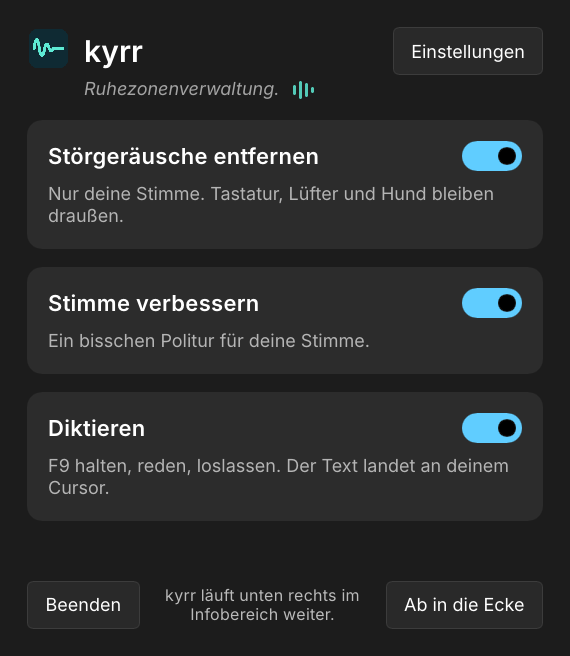
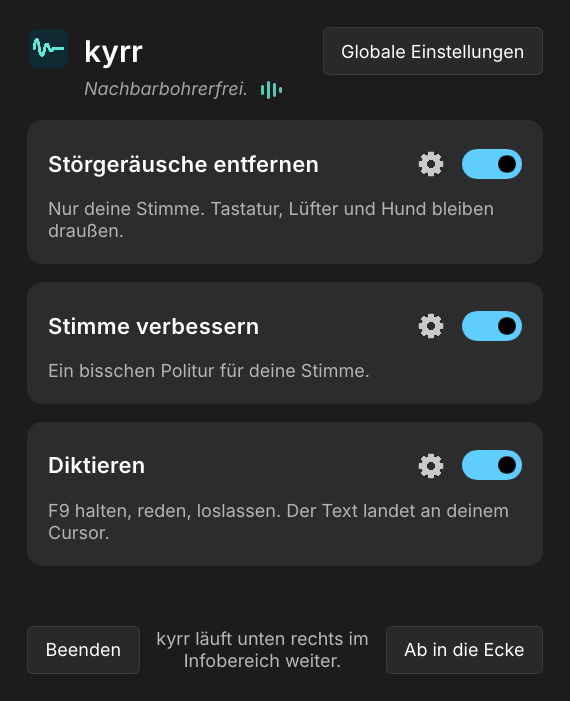
Feedback button: opens a prefilled e-mail (#81) (#82)
* Report a problem: button under Settings, About opens a prefilled e-mail

Claude-Session: https://claude.ai/code/session_01TXvexbyVhUQ5pbr1dsR8LF

* Website: fix German sentence

Claude-Session: https://claude.ai/code/session_01TXvexbyVhUQ5pbr1dsR8LF

* Rename the button to Feedback

Claude-Session: https://claude.ai/code/session_01TXvexbyVhUQ5pbr1dsR8LF

* cargo fmt

Claude-Session: https://claude.ai/code/session_01TXvexbyVhUQ5pbr1dsR8LF

---------

diff --git a/site/de/index.html b/site/de/index.html
@@ -53,7 +53,7 @@
         <a class="btn primary" href="#download">Herunterladen</a>
         <a class="more" href="https://github.com/heast13/kyrr#readme">README auf GitHub (Englisch) ›</a>
       </div>
-      <img src="../main-de.png" width="570" height="656" alt="Das kyrr-Fenster: Störgeräusche entfernen, Stimme verbessern und Diktieren, jeweils mit einem Schalter">
+      <img src="../main-de.png" width="570" height="701" alt="Das kyrr-Fenster: Störgeräusche entfernen, Stimme verbessern und Diktieren, jeweils mit einem Schalter und einem Zahnrad für die Einstellungen">
       <div class="demo">
         <div class="screen" data-demo data-lang="de" data-base="../sayings/" data-sayings="Mein Nachbar bohrt seit Dienstag, und die Wand hat sich noch nicht mal beschwert.|Ich hab nicht gerülpst, das war der Kühlschrank, der wollte auch mal.|Der Lüfter klingt wie ein Hund mit Asthma, aber er bleibt im Job.|Der Kaffee schmeckt nach nassen Socken, aber er wirkt.|Meine Katze hat den Staubsauger angebellt und dabei den Streit verloren.|Ich bin nicht müde, nur mein Hirn hat schon Feierabend gemacht.|Die Heizung gluckert wie ein Bauch nach der Currywurst.|Der Drucker hat wieder Papierstau, und mein Verständnis ist auch wieder weg." role="img" aria-label="Animation: ein Notizen-Fenster auf dem Bildschirm. Während ein Satz gesprochen wird, erscheint unten die Diktieranzeige mit den bisher verstandenen Wörtern. Beim Loslassen der Taste wird der Satz ins Dokument geschrieben.">
           <div class="win" aria-hidden="true">
@@ -74,7 +74,7 @@
       </div>
       <div class="feature">
         <h3>Stimme verbessern</h3>
-        <p>Filter gegen tiefes Rumpeln, Klang-Voreinstellungen (Neutral, Warm, Klar, Hell oder eigene), Kompressor, De-Esser, Popschutz und automatische Lautstärke. Voreingestellt: neutraler Klang, mittlere Kompression, leichte S-Laut-Dämpfung, Rumpelfilter und automatische Lautstärke. Alles lässt sich in den Einstellungen ändern.</p>
+        <p>Filter gegen tiefes Rumpeln, Klang-Voreinstellungen (Neutral, Warm, Klar, Hell oder eigene), Kompressor, De-Esser, Popschutz und automatische Lautstärke. Voreingestellt: neutraler Klang, mittlere Kompression, leichte S-Laut-Dämpfung, Rumpelfilter und automatische Lautstärke. Alles lässt sich unter dem Zahnrad der Stimme ändern.</p>
       </div>
       <div class="feature">
         <h3>Diktierfunktion</h3>
@@ -102,7 +102,7 @@
   <div class="wrap">
     <h2 id="h-privacy">Datenschutz</h2>
     <p class="lead">Ton und Text werden nur auf deinem Computer verarbeitet. kyrr braucht kein Konto und sendet keine Nutzungsdaten.</p>
-    <p class="small">kyrr verbindet sich für drei Dinge mit dem Internet: einmal zum Herunterladen des Sprachmodells (jede Datei wird per SHA256-Prüfsumme kontrolliert), täglich zur Update-Suche bei GitHub (in den Einstellungen abschaltbar) und zum Herunterladen eines Updates, wenn du auf „Aktualisieren“ klickst. <a href="https://github.com/heast13/kyrr#privacy">Details im README (Englisch)</a></p>
+    <p class="small">kyrr verbindet sich für drei Dinge mit dem Internet: einmal zum Herunterladen des Sprachmodells (jede Datei wird per SHA256-Prüfsumme kontrolliert), täglich zur Update-Suche bei GitHub (in den globalen Einstellungen abschaltbar) und zum Herunterladen eines Updates, wenn du auf „Aktualisieren“ klickst. <a href="https://github.com/heast13/kyrr#privacy">Details im README (Englisch)</a></p>
   </div>
 </section>
 
@@ -143,7 +143,7 @@
         <div class="more-info">
           <details>
             <summary>Beim Anmelden starten</summary>
-            <p>kyrr startet automatisch beim Anmelden, sobald die Einrichtung beim ersten Start fertig ist. Ändern: Einstellungen in kyrr, „Mit Windows starten“.</p>
+            <p>kyrr startet automatisch beim Anmelden, sobald die Einrichtung beim ersten Start fertig ist. Ändern: Globale Einstellungen in kyrr, „Mit Windows starten“.</p>
           </details>
         </div>
       </div>
@@ -159,7 +159,7 @@ curl -fL -o ~/.local/bin/kyrr.new https://github.com/heast13/kyrr/releases/lates
         <div class="more-info">
           <details>
             <summary>Beim Anmelden starten</summary>
-            <p>kyrr startet automatisch beim Anmelden, sobald die Einrichtung beim ersten Start fertig ist. Ändern: Einstellungen in kyrr, „Beim Anmelden starten“.</p>
+            <p>kyrr startet automatisch beim Anmelden, sobald die Einrichtung beim ersten Start fertig ist. Ändern: Globale Einstellungen in kyrr, „Beim Anmelden starten“.</p>
           </details>
           <details>
             <summary>Deinstallieren</summary>
@@ -207,7 +207,7 @@ rm -rf ~/.config/kyrr ~/.local/share/kyrr</code></pre></div>
   </details>
   <details>
     <summary>Ist kyrr fertig?</summary>
-    <p>kyrr wird aktiv weiterentwickelt. Ein Problem oder eine Idee? In kyrr öffnet „Feedback“ (Einstellungen, Über kyrr) eine E-Mail an <a href="mailto:stueckig.habicht_2o@icloud.com">stueckig.habicht_2o@icloud.com</a>. Fehlermeldungen und Vorschläge gehen auch über <a href="https://github.com/heast13/kyrr/issues">GitHub</a>.</p>
+    <p>kyrr wird aktiv weiterentwickelt. Ein Problem oder eine Idee? In kyrr öffnet „Feedback“ (Globale Einstellungen, Über kyrr) eine E-Mail an <a href="mailto:stueckig.habicht_2o@icloud.com">stueckig.habicht_2o@icloud.com</a>. Fehlermeldungen und Vorschläge gehen auch über <a href="https://github.com/heast13/kyrr/issues">GitHub</a>.</p>
   </details>
 </section>
 

diff --git a/site/index.html b/site/index.html
@@ -65,7 +65,7 @@
         <a class="btn primary" href="#download">Download</a>
         <a class="more" href="https://github.com/heast13/kyrr#readme">README on GitHub ›</a>
       </div>
-      <img src="main.png" width="570" height="611" alt="kyrr's window: noise filter, improve voice and dictation, each with one switch">
+      <img src="main.png" width="570" height="656" alt="kyrr's window: noise filter, improve voice and dictation, each with one switch and a gear for its settings">
       <div class="demo">
         <div class="screen" data-demo data-lang="en" data-base="sayings/" data-sayings="My neighbour has been drilling since Tuesday and the wall still hasn't complained.|I did not burp, that was the fridge wanting attention.|The fan sounds like a dog with asthma, but it keeps its job.|This coffee tastes like wet socks, but it works.|My cat barked at the vacuum cleaner and lost the argument.|I am not tired, my brain just clocked out early.|The radiator gurgles like a stomach after a bad kebab.|The printer jammed again, and so did my patience." role="img" aria-label="Animation: a notes window on the screen. While a sentence is spoken, the dictation display appears at the bottom with the words heard so far. When the key is released, the sentence is written into the document.">
           <div class="win" aria-hidden="true">
@@ -86,7 +86,7 @@
       </div>
       <div class="feature">
         <h3>Improve voice</h3>
-        <p>Filter for low rumble, tone presets (Neutral, Warm, Clear, Bright or custom), compressor, de-esser, pop protection and automatic volume. Default: neutral tone, medium compression, light de-essing, rumble filter and automatic volume. Everything can be changed in Settings.</p>
+        <p>Filter for low rumble, tone presets (Neutral, Warm, Clear, Bright or custom), compressor, de-esser, pop protection and automatic volume. Default: neutral tone, medium compression, light de-essing, rumble filter and automatic volume. Everything can be changed under the voice gear.</p>
       </div>
       <div class="feature">
         <h3>Dictation</h3>
@@ -114,7 +114,7 @@
   <div class="wrap">
     <h2 id="h-privacy">Privacy</h2>
     <p class="lead">Audio and text are processed only on your computer. kyrr needs no account and sends no usage data.</p>
-    <p class="small">kyrr connects to the internet for three things: downloading the speech model once (each file checked against a SHA256 hash), a daily update check with GitHub (can be switched off in Settings), and downloading an update when you click “Update”. <a href="https://github.com/heast13/kyrr#privacy">Details in the README</a></p>
+    <p class="small">kyrr connects to the internet for three things: downloading the speech model once (each file checked against a SHA256 hash), a daily update check with GitHub (can be switched off in Global settings), and downloading an update when you click “Update”. <a href="https://github.com/heast13/kyrr#privacy">Details in the README</a></p>
   </div>
 </section>
 
@@ -155,7 +155,7 @@
         <div class="more-info">
           <details>
             <summary>Start at sign-in</summary>
-            <p>kyrr starts automatically when you sign in, once its first-start setup is done. To change this: Settings in kyrr, “Start with Windows”.</p>
+            <p>kyrr starts automatically when you sign in, once its first-start setup is done. To change this: Global settings in kyrr, “Start with Windows”.</p>
           </details>
         </div>
       </div>
@@ -171,7 +171,7 @@ curl -fL -o ~/.local/bin/kyrr.new https://github.com/heast13/kyrr/releases/lates
         <div class="more-info">
           <details>
             <summary>Start at sign-in</summary>
-            <p>kyrr starts automatically when you sign in, once its first-start setup is done. To change this: Settings in kyrr, “Start when you sign in”.</p>
+            <p>kyrr starts automatically when you sign in, once its first-start setup is done. To change this: Global settings in kyrr, “Start when you sign in”.</p>
           </details>
           <details>
             <summary>Uninstall</summary>
@@ -219,7 +219,7 @@ rm -rf ~/.config/kyrr ~/.local/share/kyrr</code></pre></div>
   </details>
   <details>
     <summary>Is kyrr finished?</summary>
-    <p>kyrr is in active development. Found a problem or have an idea? In kyrr, Settings, About, “Feedback” opens an e-mail to <a href="mailto:stueckig.habicht_2o@icloud.com">stueckig.habicht_2o@icloud.com</a>. Bug reports and suggestions are also welcome on <a href="https://github.com/heast13/kyrr/issues">GitHub</a>.</p>
+    <p>kyrr is in active development. Found a problem or have an idea? In kyrr, Global settings, About, “Feedback” opens an e-mail to <a href="mailto:stueckig.habicht_2o@icloud.com">stueckig.habicht_2o@icloud.com</a>. Bug reports and suggestions are also welcome on <a href="https://github.com/heast13/kyrr/issues">GitHub</a>.</p>
   </details>
 </section>
 

diff --git a/crates/kyrr-app/examples/preview.rs b/crates/kyrr-app/examples/preview.rs
@@ -136,9 +136,9 @@ fn main() {
     state.set_phrase(2);
     render(&window, &ui, &format!("{out}/download-{lang}.rgba"));
 
-    // Settings as most people see them: the basics.
+    // The settings pages: global, then one for each card's gear. The basics
+    // first, then the same page in its advanced view.
     state.set_dictation_state(DictationState::Ready);
-    state.set_page(1);
     state.set_probe_state(ProbeState::Idle);
     state.set_has_probe(true);
     state.set_mic_active(true);
@@ -146,34 +146,48 @@ fn main() {
     state.set_level_after(0.55);
     state.set_look_index(2);
     state.set_voice_is_default(false);
-    render(&window, &ui, &format!("{out}/settings-{lang}.rgba"));
-    // Listening to yourself: the button turns red.
-    state.set_listening(true);
-    render(&window, &ui, &format!("{out}/settings-listening-{lang}.rgba"));
-    state.set_listening(false);
-
-    // Everything, with the custom sound so the sliders show.
-    state.set_advanced(true);
     state.set_live_words(true);
-    state.set_look_index(4);
     state.set_body_db(1.5);
     state.set_presence_db(-2.0);
     state.set_deesser_index(2);
-    render(&window, &ui, &format!("{out}/settings-advanced-{lang}.rgba"));
+    for (page, name) in [(1, "settings"), (2, "noise"), (3, "voice"), (4, "dictation")] {
+        state.set_page(page);
+        state.set_advanced(false);
+        render(&window, &ui, &format!("{out}/{name}-{lang}.rgba"));
+        state.set_advanced(true);
+        if page == 3 {
+            state.set_look_index(4);
+        }
+        render(&window, &ui, &format!("{out}/{name}-advanced-{lang}.rgba"));
+        state.set_look_index(2);
+    }
+    state.set_advanced(false);
+    state.set_page(2);
+    // Listening to yourself: the button turns red.
+    state.set_listening(true);
+    render(&window, &ui, &format!("{out}/noise-listening-{lang}.rgba"));
+    state.set_listening(false);
+    state.set_page(1);
     state.set_effort_index(2);
+    state.set_advanced(true);
     render(&window, &ui, &format!("{out}/settings-advanced-custom-{lang}.rgba"));
     state.set_effort_index(1);
     state.set_advanced(false);
 
-    // Settings with voice off and the defaults.
+    // The voice page with voice off, the defaults and an update on the way.
     state.set_voice_enabled(false);
     state.set_look_index(0);
     state.set_voice_is_default(true);
     state.set_has_probe(false);
+    state.set_page(3);
+    render(&window, &ui, &format!("{out}/voice-off-{lang}.rgba"));
+    state.set_page(1);
     state.set_update_state(UpdateState::Available);
     state.set_update_version("0.4.0".into());
     state.set_update_installable(true);
-    render(&window, &ui, &format!("{out}/settings-off-{lang}.rgba"));
+    state.set_advanced(true);
+    render(&window, &ui, &format!("{out}/update-settings-{lang}.rgba"));
+    state.set_advanced(false);
     state.set_update_state(UpdateState::Downloading);
     state.set_update_progress(0.37);
     render(&window, &ui, &format!("{out}/update-{lang}.rgba"));
@@ -184,6 +198,9 @@ fn main() {
     state.set_voice_enabled(false);
     state.set_mic_active(false);
     state.set_filter_state(FilterState::Unsupported);
+    state.set_page(2);
+    render(&window, &ui, &format!("{out}/arm-noise-{lang}.rgba"));
+    state.set_page(1);
     render(&window, &ui, &format!("{out}/arm-settings-{lang}.rgba"));
     state.set_page(0);
     render(&window, &ui, &format!("{out}/arm-{lang}.rgba"));

diff --git a/crates/kyrr-app/src/main.rs b/crates/kyrr-app/src/main.rs
@@ -269,7 +269,7 @@ fn show_voice(state: &AppState, v: &VoiceSettings) {
 }
 
 /// Tallest the window gets, screen permitting; more content scrolls. Room
-/// for the whole two-column settings page in its advanced view (about 1260).
+/// for the tallest settings page in its advanced view (about 1260).
 const MAX_HEIGHT: f32 = 1310.0;
 /// Tallest when the screen is unknown: fits a 768-pixel-high laptop screen
 /// with the taskbar and title bar.
@@ -1640,7 +1640,6 @@ fn run(background: bool, show_requests: Option<mpsc::Receiver<()>>) -> Result<()
     state.set_linux(cfg!(target_os = "linux"));
     state.set_tray(platform::has_tray());
     state.set_can_minimize(platform::can_minimize());
-    state.set_advanced(app.config.borrow().advanced_settings);
     state.set_live_words(app.config.borrow().dictation_live);
     app.show_effort();
     app.apply_key();
@@ -1673,14 +1672,7 @@ fn run(background: bool, show_requests: Option<mpsc::Receiver<()>>) -> Result<()
     });
     state.on_advanced_toggled({
         let app = Rc::clone(&app);
-        move |on| {
-            {
-                let mut config = app.config.borrow_mut();
-                config.advanced_settings = on;
-                config.save();
-            }
-            fit(&app.window);
-        }
+        move |_| fit(&app.window)
     });
     state.on_dismiss_update({
         let app = Rc::clone(&app);

diff --git a/crates/kyrr-app/src/config.rs b/crates/kyrr-app/src/config.rs
@@ -32,8 +32,6 @@ pub struct Config {
     pub update_checked: u64,
     /// The version whose note the user closed; it stays away until the next.
     pub update_dismissed: String,
-    /// The settings page shows everything, not just the basics.
-    pub advanced_settings: bool,
     /// The microphone Windows used by default when the user picked another
     /// one on purpose; kyrr leaves that pick until the default changes.
     pub pinned_default: String,
@@ -62,7 +60,6 @@ impl Default for Config {
             update_check: true,
             update_checked: 0,
             update_dismissed: String::new(),
-            advanced_settings: false,
             pinned_default: String::new(),
             last_run_version: String::new(),
         }

diff --git a/scripts/package-linux.py b/scripts/package-linux.py
@@ -177,7 +177,7 @@ def stage(root: Path) -> None:
     hicolor = usr / "share" / "icons" / "hicolor"
     copy(icons / "kyrr-256.png", hicolor / "256x256" / "apps" / f"{APP_ID}.png")
     copy(icons / "kyrr.svg", hicolor / "scalable" / "apps" / f"{APP_ID}.svg")
-    # Where the app's Settings, About finds THIRD_PARTY.md.
+    # Where the app's Global settings, About finds THIRD_PARTY.md.
     doc = usr / "share" / "doc" / "kyrr"
     for f in ("THIRD_PARTY.md", "NOTICE", "LICENSE-MIT", "LICENSE-APACHE"):
         copy(ROOT / f, doc / f)

diff --git a/README.md b/README.md
@@ -35,7 +35,7 @@ What it does:
   Polish, Portuguese and others), transcribed on your PC. Say "new line" or
   "neue Zeile" for a line break. While you dictate, a small wave at the
   bottom of the screen shows that kyrr is listening, with the words heard so
-  far (switchable in the advanced settings), and then that it is writing.
+  far (switchable under the dictation gear, Advanced), and then that it is writing.
 - **Check.** A live level of what the microphone hears and what apps get,
   a ten-second test (record once, then play the take before and after kyrr)
   and listening to yourself live on headphones.
@@ -45,10 +45,10 @@ What it does:
   found, or one that just arrived.
 
 <p align="center">
-  <img src="docs/screenshots/main.png" width="380" alt="kyrr's window: noise filter, improve voice and dictation, each with one switch">
+  <img src="docs/screenshots/main.png" width="380" alt="kyrr's window: noise filter, improve voice and dictation, each with one switch and a gear for its settings">
 </p>
 <p align="center">
-  <img src="docs/screenshots/settings.png" width="760" alt="Settings in two columns: filter strength and model, voice sound with its sliders, compressor, S sounds, low cut, pop protection, distance compensation, language, autostart, updates and microphone; dictation key, words while you talk, level check with before/after test and listening, automatic volume, about">
+  <img src="docs/screenshots/settings.png" width="900" alt="The settings pages that the gears open: noise (filter strength, level check with before/after test and listening), voice in its advanced view (sound with sliders, compressor, S sounds, low cut, pop protection, distance compensation, automatic volume) and dictation (key and how it works)">
 </p>
 
 Status: young and in active development.
@@ -119,7 +119,7 @@ curl -fL -o ~/.local/bin/kyrr.new https://github.com/heast13/kyrr/releases/lates
 Either way kyrr adds itself to your app menu on its first start.
 
 **Start at sign-in** switches on by itself when the first-start setup is
-done. Switch it off or on again in Settings, "Start when you sign in".
+done. Switch it off or on again in Global settings, "Start when you sign in".
 
 **Updates** are not installed by themselves: kyrr says when there is a new
 version; paste the install commands again: a running kyrr closes, the file is
@@ -218,7 +218,7 @@ moves it slowly (5 dB/s up, 10 dB/s down, at most +24/−12 dB) towards about
 adjust the volume themselves (call apps, say) can work against it, so use
 one of the two.
 
-*Distance compensation* (on by default, switch it off under advanced settings)
+*Distance compensation* (on by default, switch it off under the voice gear, Advanced)
 helps when you sit far from the microphone and the room echoes on every word. It listens to the raw
 microphone: after a syllable a close voice falls 20 dB and more within
 40 ms, while far away no level falls faster than the room's echo dies down.
@@ -256,7 +256,7 @@ of after a quarter of an hour without dictation:
 |---|---|---|
 | German | [primeline/parakeet-primeline](https://huggingface.co/primeline/parakeet-primeline), a German fine-tune of NVIDIA Parakeet; also handles English | 900 MB |
 | English | [NVIDIA parakeet-unified-en-0.6b](https://huggingface.co/nvidia/parakeet-unified-en-0.6b) | 663 MB |
-| Multilingual (Language choice in the setup and in Settings) | [NVIDIA parakeet-tdt-0.6b-v3](https://huggingface.co/nvidia/parakeet-tdt-0.6b-v3), 25 European languages, picks the language itself. Works in French, Spanish, Polish, Portuguese, Italian and Dutch (see the measurements in `tools/export-primeline`); German and English also work | 900 MB |
+| Multilingual (Language choice in the setup and in Global settings) | [NVIDIA parakeet-tdt-0.6b-v3](https://huggingface.co/nvidia/parakeet-tdt-0.6b-v3), 25 European languages, picks the language itself. Works in French, Spanish, Polish, Portuguese, Italian and Dutch (see the measurements in `tools/export-primeline`); German and English also work | 900 MB |
 
 On Windows dictation does nothing while a window running as administrator is
 in front: Windows keeps normal programs from seeing the keyboard there.
@@ -276,7 +276,7 @@ the internet for exactly these things:
   whose answer also carries the short "What's new" text of that version.
   It sends nothing about you beyond what any web request carries: your IP
   address and "kyrr/<version>" as the program's name. It can be switched
-  off under Settings, General ("Check for updates automatically"); then
+  off under Global settings, Advanced ("Check for updates automatically"); then
   kyrr only asks when you click "Check for updates".
 - **An update**, only when you click "Update": the installer of the new
   version from this repository's releases, checked against its SHA256 file.
@@ -340,7 +340,7 @@ The cores (`kyrr-denoise`, `kyrr-voice`, `kyrr-dictate`) build and test on Linux
 
 ## Feedback
 
-In kyrr, Settings, About, "Feedback" opens an e-mail to
+In kyrr, Global settings, About, "Feedback" opens an e-mail to
 stueckig.habicht_2o@icloud.com with the kyrr version and your system filled
 in. kyrr sends nothing by itself. Issues on GitHub work too.
 
@@ -353,7 +353,7 @@ kyrr is licensed under either of
 
 at your option. Third-party components and models keep their own licenses,
 see [THIRD_PARTY.md](THIRD_PARTY.md); the app shows the model credits under
-Settings, About. kyrr's window is made with [Slint](https://slint.dev) under
+Global settings, About. kyrr's window is made with [Slint](https://slint.dev) under
 its royalty-free license, which asks for the badge at the top of this page.
 Security issues: see [SECURITY.md](SECURITY.md).
 

diff --git a/CHANGELOG.md b/CHANGELOG.md
@@ -2,7 +2,17 @@
 
 ## Unreleased
 
-- "Feedback" under Settings, About (and on the website and in the
+- Settings rebuilt for overview: the "Settings" page is now "Global
+  settings" (effort, language, start with the system, microphone, updates,
+  about). Each switch on the main page has its own gear that opens only
+  that card's settings: noise (filter strength, level check, listening),
+  voice (sound, automatic volume), dictation (key, hold or tap). Every
+  page opens in "Simple"; "Advanced" on the same page adds the rest (noise
+  model, own sound, compressor, S sounds, rumble, pops, distance
+  compensation, words while you talk, update settings). One column
+  everywhere, Windows and Linux alike. Simple or Advanced is no longer
+  remembered between visits.
+- "Feedback" under Global settings, About (and on the website and in the
   README): opens an e-mail to the maintainer with the kyrr version, the
   system (Windows, or distribution, desktop and install type on Linux) and
   the language filled in. kyrr sends nothing itself; no log is attached.
